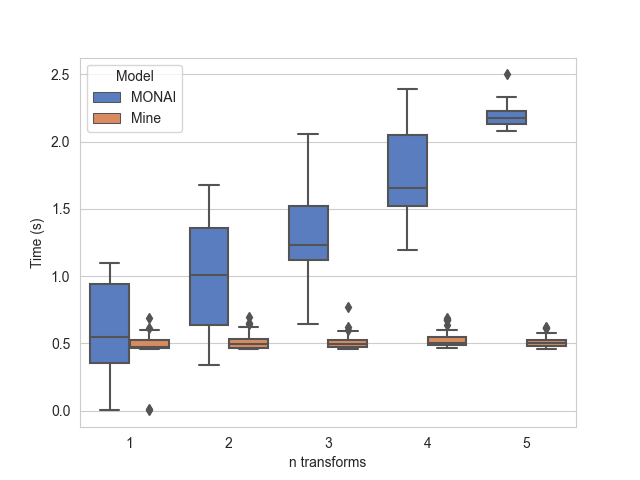
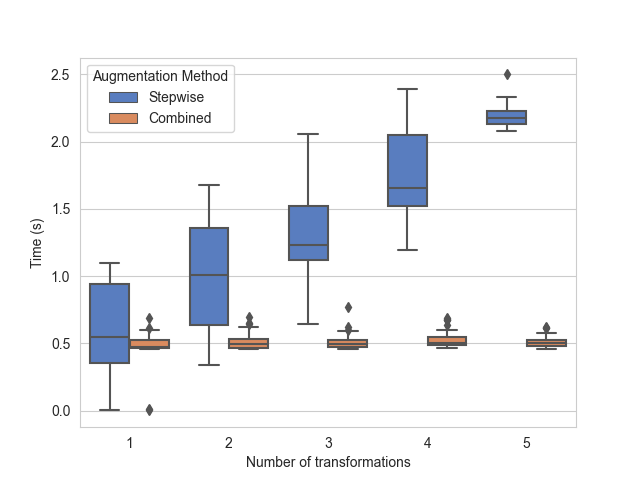
Updates plots and README

Changed region(s): [[0.125, 0.125, 0.375, 0.2812], [0.375, 0.9375, 0.6562, 1.0]]

diff --git a/plot_training_results.py b/plot_training_results.py
@@ -43,10 +43,10 @@ def main():
 
     # plot both mine and monai training and validation losses with mine transparent
     plt.clf()
-    plt.plot(my_results[1][:, 0], my_results[1][:, 1], label="Training (Mine)", color="C0", alpha=0.5)
-    plt.plot(my_results[1][:, 0], my_results[1][:, 2], label="Validation (Mine)", color="C1", alpha=0.5)
-    plt.plot(monai_results[1][:, 0], monai_results[1][:, 1], label="Training (MONAI)", color="C2")
-    plt.plot(monai_results[1][:, 0], monai_results[1][:, 2], label="Validation (MONAI)", color="C3")
+    plt.plot(my_results[1][:, 0], my_results[1][:, 1], label="Training (Combined)", color="C0", alpha=0.5)
+    plt.plot(my_results[1][:, 0], my_results[1][:, 2], label="Validation (Combined)", color="C1", alpha=0.5)
+    plt.plot(monai_results[1][:, 0], monai_results[1][:, 1], label="Training (Stepwise)", color="C2")
+    plt.plot(monai_results[1][:, 0], monai_results[1][:, 2], label="Validation (Stepwise)", color="C3")
     plt.yscale("log")
     plt.xlabel("Epoch")
     plt.ylabel("MSE")
@@ -55,10 +55,10 @@ def main():
 
     # plot both mine and monai training and validation losses with monai transparent
     plt.clf()
-    plt.plot(my_results[1][:, 0], my_results[1][:, 1], label="Training (Mine)", color="C0")
-    plt.plot(my_results[1][:, 0], my_results[1][:, 2], label="Validation (Mine)", color="C1")
-    plt.plot(monai_results[1][:, 0], monai_results[1][:, 1], label="Training (MONAI)", color="C2", alpha=0.5)
-    plt.plot(monai_results[1][:, 0], monai_results[1][:, 2], label="Validation (MONAI)", color="C3", alpha=0.5)
+    plt.plot(my_results[1][:, 0], my_results[1][:, 1], label="Training (Combined)", color="C0")
+    plt.plot(my_results[1][:, 0], my_results[1][:, 2], label="Validation (Combined)", color="C1")
+    plt.plot(monai_results[1][:, 0], monai_results[1][:, 1], label="Training (Stepwise)", color="C2", alpha=0.5)
+    plt.plot(monai_results[1][:, 0], monai_results[1][:, 2], label="Validation (Stepwise)", color="C3", alpha=0.5)
     plt.yscale("log")
     plt.xlabel("Epoch")
     plt.ylabel("MSE")
@@ -67,10 +67,10 @@ def main():
 
     # plot both mine and monai training and validation losses with none transparent
     plt.clf()
-    plt.plot(my_results[1][:, 0], my_results[1][:, 1], label="Training (Mine)", color="C0")
-    plt.plot(my_results[1][:, 0], my_results[1][:, 2], label="Validation (Mine)", color="C1")
-    plt.plot(monai_results[1][:, 0], monai_results[1][:, 1], label="Training (MONAI)", color="C2")
-    plt.plot(monai_results[1][:, 0], monai_results[1][:, 2], label="Validation (MONAI)", color="C3")
+    plt.plot(my_results[1][:, 0], my_results[1][:, 1], label="Training (Combined)", color="C0")
+    plt.plot(my_results[1][:, 0], my_results[1][:, 2], label="Validation (Combined)", color="C1")
+    plt.plot(monai_results[1][:, 0], monai_results[1][:, 1], label="Training (Stepwise)", color="C2")
+    plt.plot(monai_results[1][:, 0], monai_results[1][:, 2], label="Validation (Stepwise)", color="C3")
     plt.yscale("log")
     plt.xlabel("Epoch")
     plt.ylabel("MSE")
@@ -79,7 +79,7 @@ def main():
 
     # Compare epoch times
     plt.clf()
-    plt.boxplot([my_results[1][:, 3], monai_results[1][:, 3]], labels=["Mine", "MONAI"])
+    plt.boxplot([my_results[1][:, 3], monai_results[1][:, 3]], labels=["Combined", "Stepwise"])
     plt.ylabel("Epoch Time (s)")
     plt.savefig("results/epoch_times.png")
 

diff --git a/plot_comparisons.py b/plot_comparisons.py
@@ -12,15 +12,17 @@ def main():
     results = pd.read_csv("results/signal_loss_and_transformation_time.tsv", sep="\t")
     long_results = pd.DataFrame()
     long_results["Time"] = pd.concat([results["monai_time"], results["my_time"]], axis=0)
-    long_results["Model"] = ["MONAI"] * len(results) + ["Mine"] * len(results)
+    long_results["Augmentation Method"] = ["Stepwise"] * len(results) + ["Combined"] * len(results)
     long_results["MSE"] = pd.concat([results["monai_signal_loss"], results["my_signal_loss"]], axis=0)
     long_results["n transforms"] = pd.concat([results["n_params"], results["n_params"]], axis=0)
-    seaborn.boxplot(long_results, x="n transforms", y="Time", hue="Model")
+    seaborn.boxplot(long_results, x="n transforms", y="Time", hue="Augmentation Method")
     plt.ylabel("Time (s)")
+    plt.xlabel("Number of transformations")
     plt.savefig("results/boxplot_time.png")
 
     plt.clf()
-    seaborn.boxplot(long_results, x="n transforms", y="MSE", hue="Model")
+    seaborn.boxplot(long_results, x="n transforms", y="MSE", hue="Augmentation Method")
+    plt.xlabel("Number of transformations")
     plt.savefig("results/boxplot_mse.png")
 
 

diff --git a/README.md b/README.md
@@ -6,6 +6,18 @@ MONAI has similar functionality, but I wanted to implement my own affine transfo
 I also wanted to compare the results of using my affine transformations to the results of using MONAI's affine transformations.
 I am uploading this project as I believe it is a good reference for anyone who wants to understand how to implement affine transformations in Python.
 
+#### Error Reduction in Combined Augmentations
+![Error Reduction](./results/boxplot_mse.png)
+Performing all affine transformations in one step reduced the error of the augmented images when compared to the original images.
+
+#### Time Savings in Combined Augmentations
+![Time Savings](./results/boxplot_time.png)
+Performing all affine transformations in one step can save time when compared to performing each affine transformation in a separate step.
+
+#### Training Results
+![Training Results](./results/training_results_monai_transparent.png)
+Training the model with the combined augmentations resulted in better performance on the validation set and less overfitting to the training set.
+
 ## Main Files
 * `affine.py` contains the functions to generate the affine transformations. Most of the linear algebra part of this project is contained in this file.
 * `augment.py` contains the functions to apply the affine augmentations to the images. The rest of the linear algebra part of this project is contained in this file.
